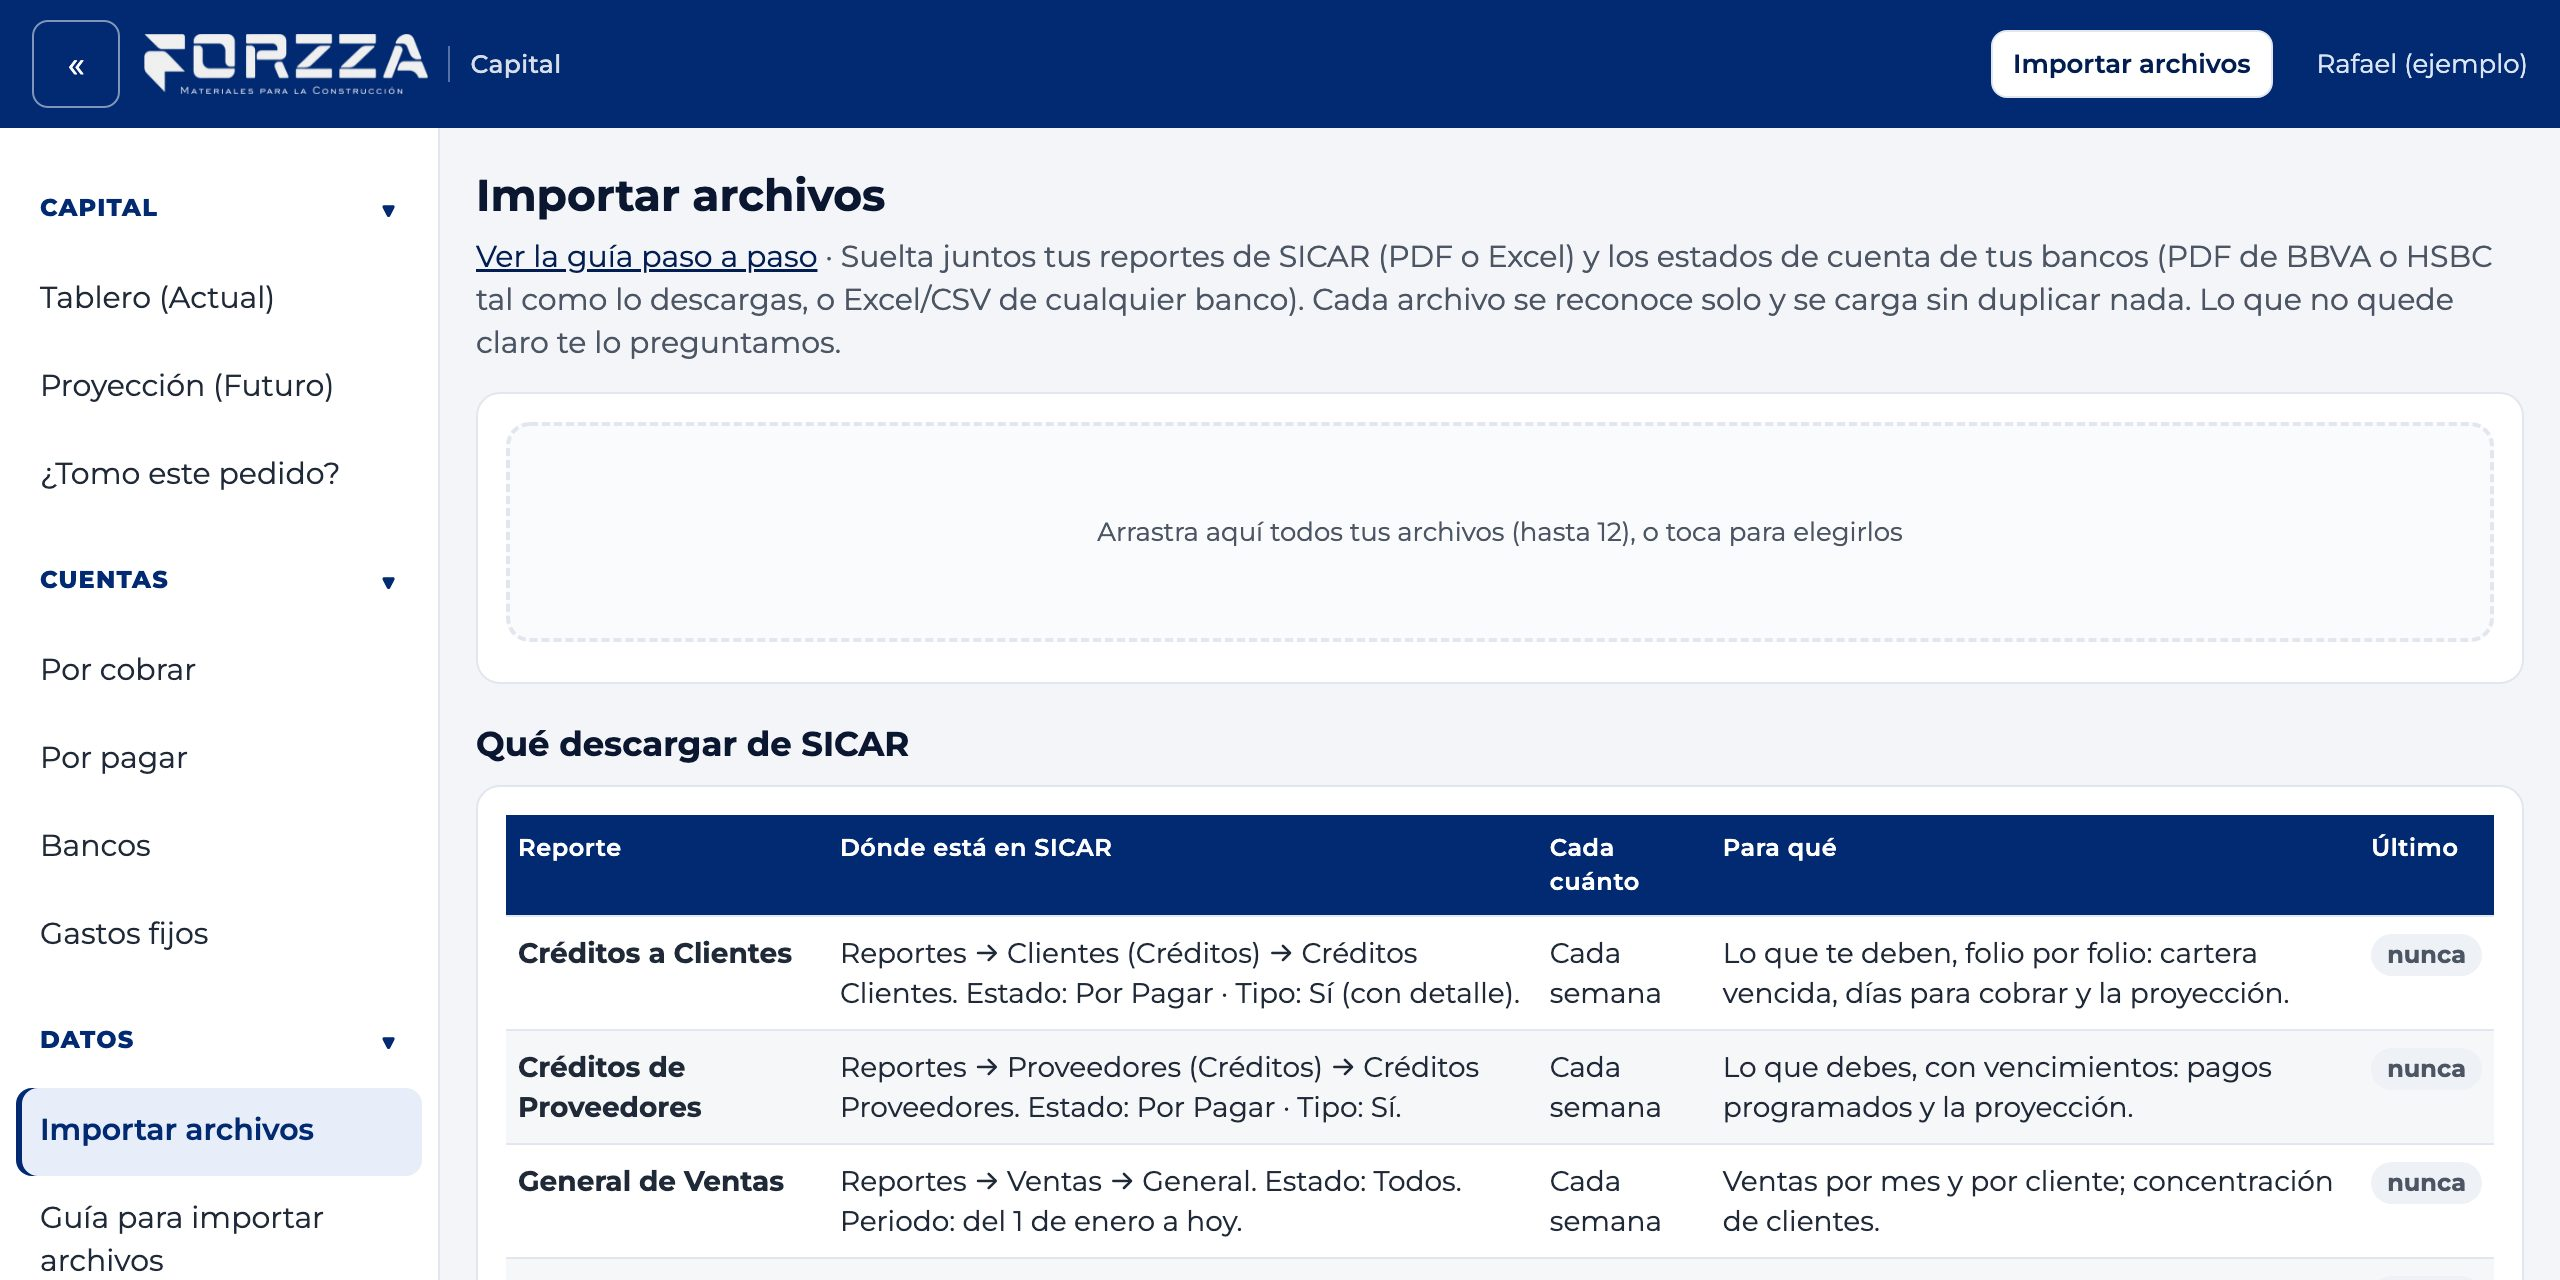
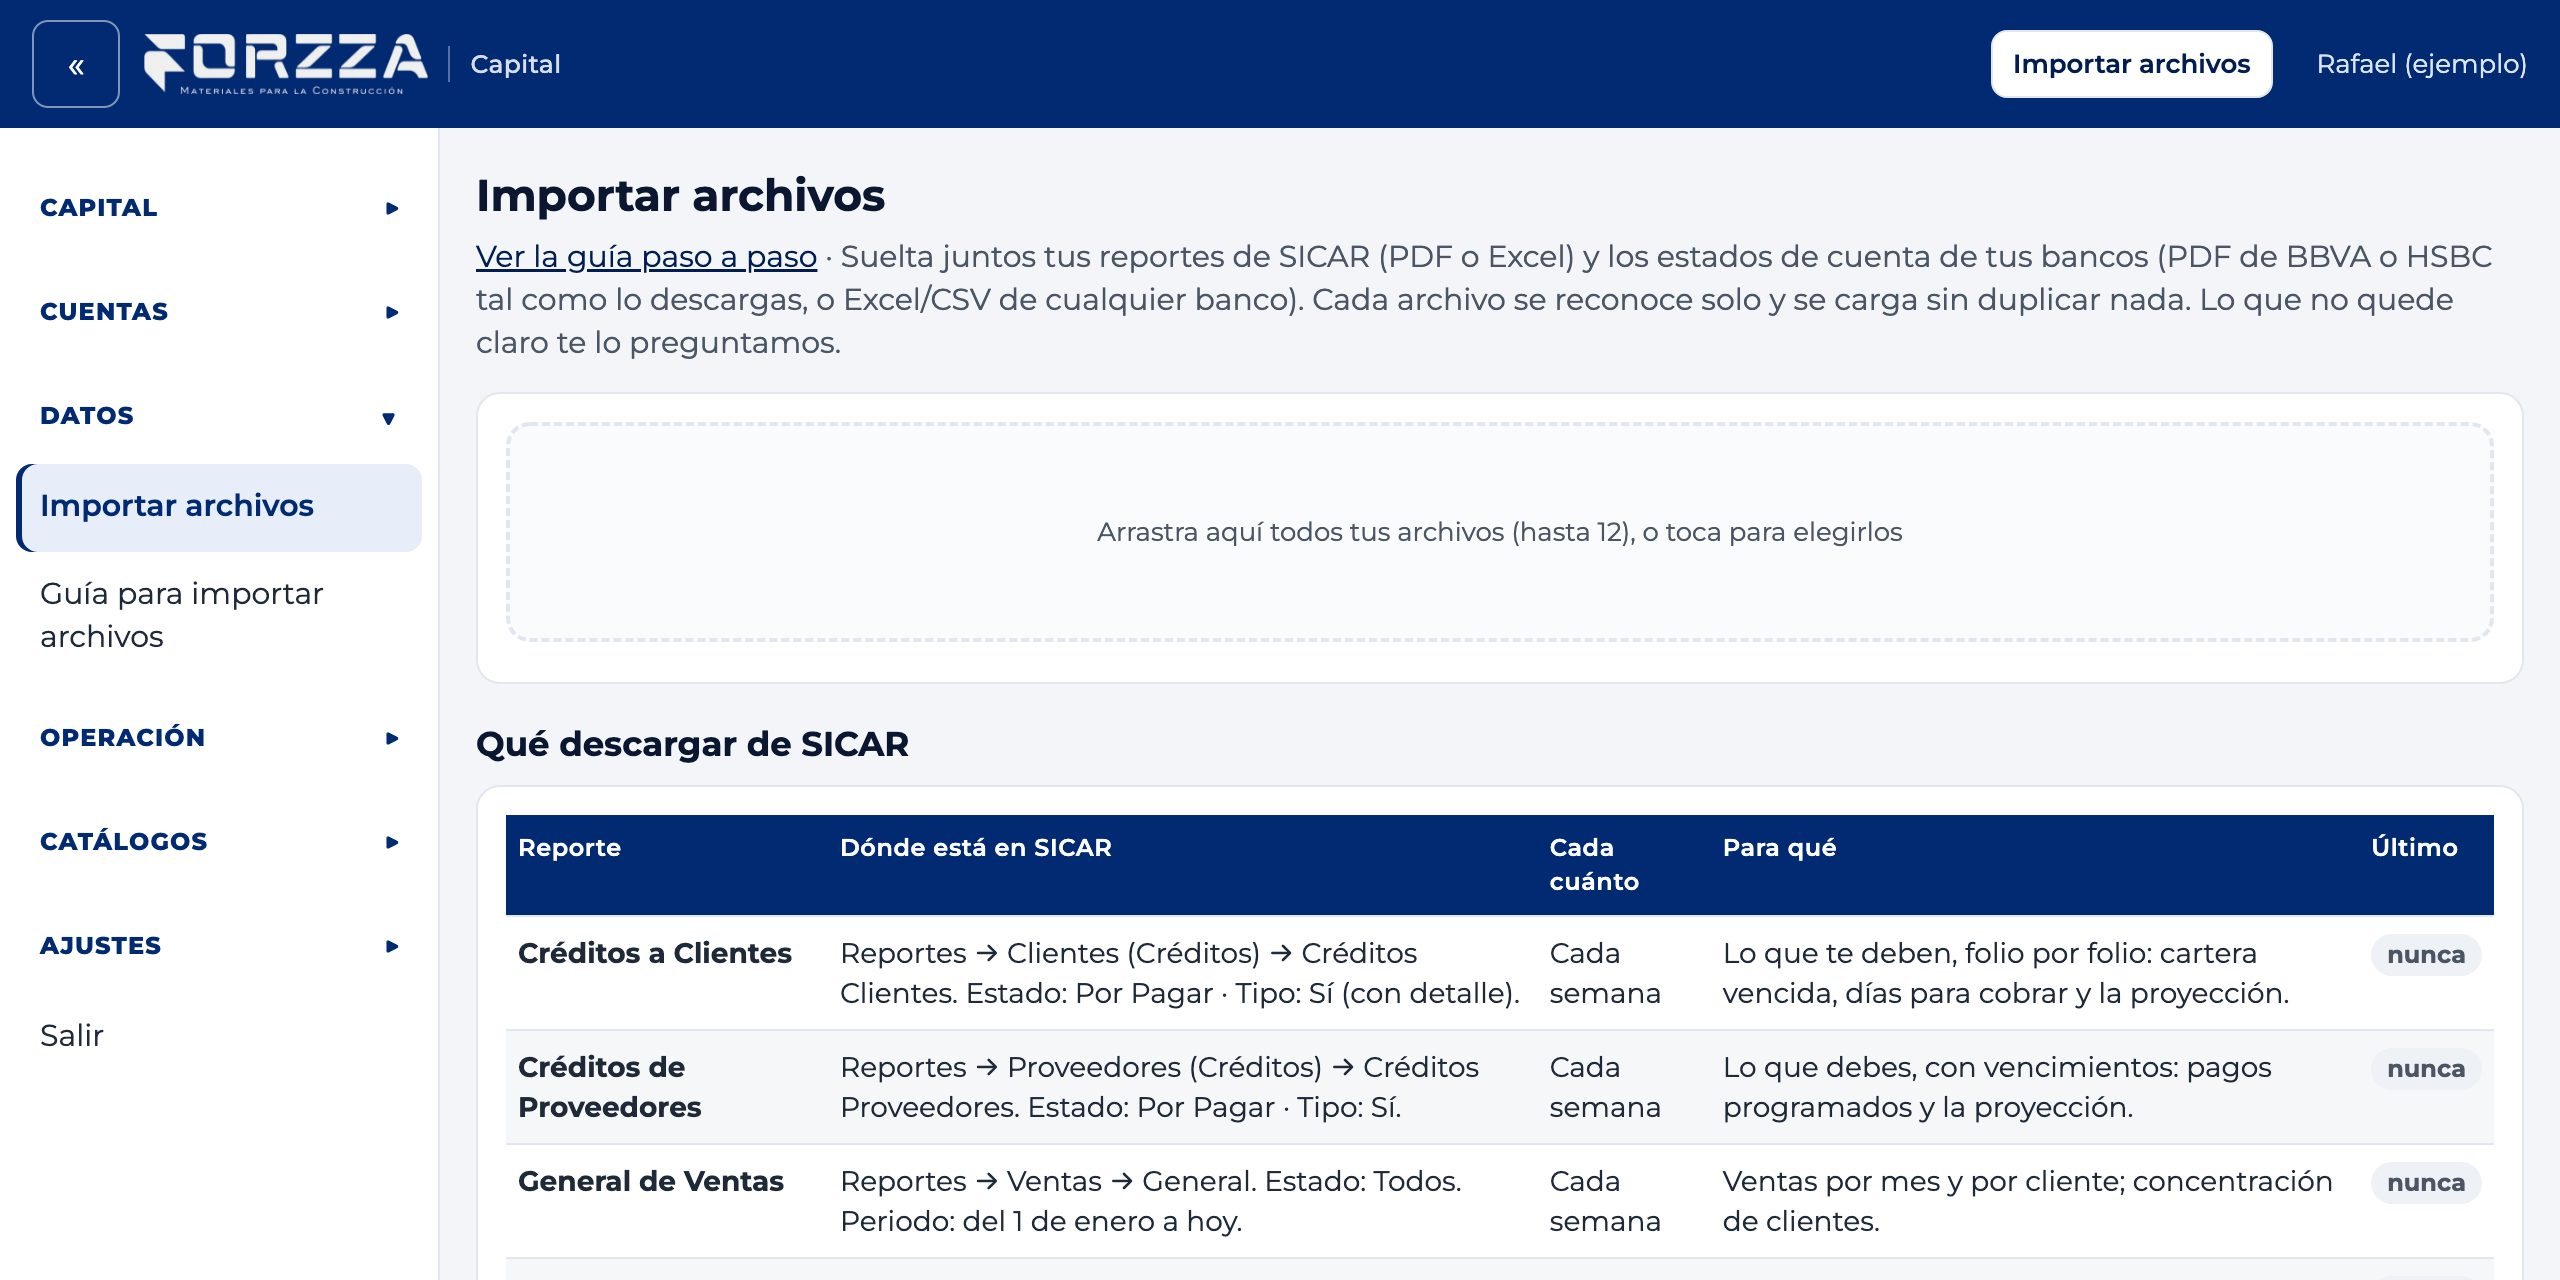
feat(forzza): menu categories collapsed by default; opened ones are remembered

diff --git a/verticals/forzza/public/app.js b/verticals/forzza/public/app.js
@@ -215,14 +215,15 @@
     ['grp', 'Catálogos'], ['clientes', 'Clientes'], ['proveedores', 'Proveedores'],
     ['grp', 'Ajustes'], ['ajustes', 'Reserva y aprobación'], ['usuarios', 'Usuarios'], ['cuenta', 'Mi cuenta']
   ];
-  // Menú por categorías que se pliegan y despliegan; se recuerda en este equipo. La categoría de la pantalla abierta siempre se ve.
-  function grpCerrados() { try { return JSON.parse(localStorage.getItem('fz_grp_cerrados') || '[]'); } catch (e) { return []; } }
+  // Menú por categorías: TODAS plegadas por omisión (dueño 2026-11-23); se recuerda en este equipo cuáles abrió la persona.
+  // La categoría de la pantalla abierta siempre se ve.
+  function grpAbiertos() { try { return JSON.parse(localStorage.getItem('fz_grp_abiertos') || '[]'); } catch (e) { return []; } }
   function menuHtml() {
-    const cerr = grpCerrados(); let out = '', abierto = false;
+    const abiertos = grpAbiertos(); let out = '', abierto = false;
     for (const [k, l] of VIEWS) {
       if (k === 'grp') {
         if (abierto) out += '</div>';
-        const open = !cerr.includes(l);
+        const open = abiertos.includes(l);
         out += `<button type="button" class="grp" data-g="${esc(l)}" aria-expanded="${open}"><span>${l}</span><span class="chev" aria-hidden="true">▾</span></button><div class="gitems" data-g="${esc(l)}"${open ? '' : ' hidden'}>`;
         abierto = true; continue;
       }
@@ -235,7 +236,7 @@
     const btn = document.querySelector(`nav.side button.grp[data-g="${CSS.escape(g)}"]`), box = document.querySelector(`nav.side .gitems[data-g="${CSS.escape(g)}"]`);
     if (!btn || !box) return;
     btn.setAttribute('aria-expanded', String(!!abrir)); box.hidden = !abrir;
-    if (recordar) { const c = grpCerrados().filter((x) => x !== g); if (!abrir) c.push(g); try { localStorage.setItem('fz_grp_cerrados', JSON.stringify(c)); } catch (e) {} }
+    if (recordar) { const c = grpAbiertos().filter((x) => x !== g); if (abrir) c.push(g); try { localStorage.setItem('fz_grp_abiertos', JSON.stringify(c)); } catch (e) {} }
   }
   function shell() {
     $app.innerHTML = `<header class="top"><button class="burger" id="burger" aria-label="Ocultar el menú" aria-expanded="true" title="Ocultar o mostrar el menú"><span class="bi">☰</span><span class="bd">«</span></button>

diff --git a/verticals/forzza/sit.js b/verticals/forzza/sit.js
@@ -619,7 +619,7 @@ const hoyMx = () => new Date(Date.now() - 6 * 3600 * 1000).toISOString().slice(0
       const ap = fs.readFileSync(path.join(__dirname, 'public', 'app.js'), 'utf8');
       const menu = ap.slice(ap.indexOf('const VIEWS = ['), ap.indexOf('];', ap.indexOf('const VIEWS = [')));
       ok('menú: un solo lugar para importar ("Importar archivos") y sin puente ni "Importar de SICAR"', /\['cargar', 'Importar archivos'\]/.test(menu) && !/Importar de SICAR|guia-puente|'sicar',/.test(menu));
-      ok('menú: cada categoría se pliega y despliega, se recuerda, y la de la pantalla abierta siempre se ve', /button type="button" class="grp"/.test(ap) && /aria-expanded/.test(ap) && /fz_grp_cerrados/.test(ap) && /box\.hidden\) abrirGrupo\(box\.dataset\.g, true, false\)/.test(ap));
+      ok('menú: categorías plegadas por omisión, se recuerda cuáles se abren, y la de la pantalla abierta siempre se ve', /button type="button" class="grp"/.test(ap) && /aria-expanded/.test(ap) && /fz_grp_abiertos/.test(ap) && /const open = abiertos\.includes\(l\)/.test(ap) && /box\.hidden\) abrirGrupo\(box\.dataset\.g, true, false\)/.test(ap));
       ok('ninguna otra pantalla importa: no queda importModal; Por cobrar, Por pagar y Bancos ya no tienen botón de importar (dueño 2026-11-23)', !/importModal|movimientos\/importar|\/importar'|Importar estado de cuenta<\/a>/.test(ap) && !/<\/button>\s*<a class="btn" href="#cargar">Importar archivos<\/a><\/div>/.test(ap));
       ok('sin rastros del puente en la app ni en el servidor', !/puente|llaves/.test(ap) && !/puenteScript|\/ingest\/sicar|'\/llaves'/.test(fs.readFileSync(path.join(__dirname, 'src', 'index.js'), 'utf8')) && !fs.existsSync(path.join(__dirname, 'public', 'guia-puente.html')));
       const gc = fs.readFileSync(path.join(__dirname, 'public', 'guia-carga.html'), 'utf8');

diff --git a/verticals/forzza/public/app.html b/verticals/forzza/public/app.html
@@ -148,6 +148,6 @@ body.vista-llena main{max-width:none;display:flex;flex-direction:column}
 </head>
 <body>
 <div id="app"></div>
-<script src="app.js?v=28" defer></script>
+<script src="app.js?v=29" defer></script>
 </body>
 </html>
